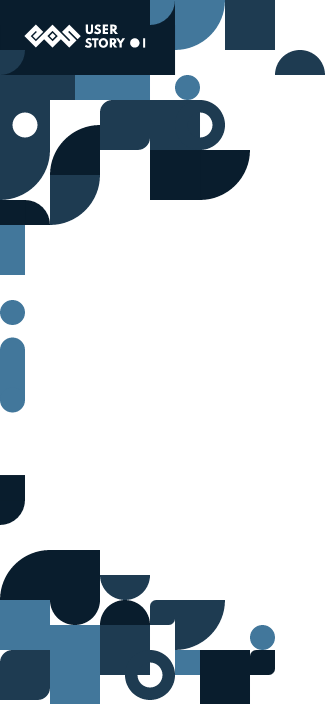
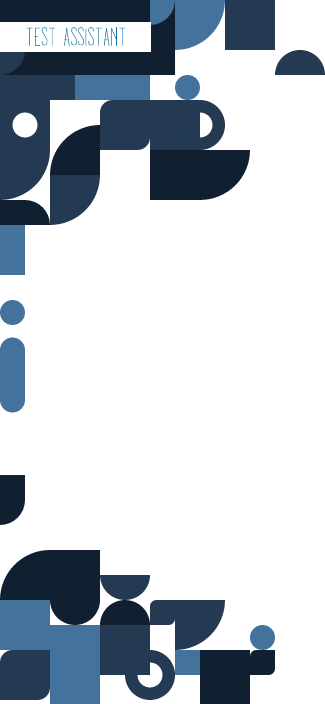
test report demo

Changed region(s): [[0.0, 0.0312, 0.4615, 0.0938]]

diff --git a/client/src/components/Navigation.js b/client/src/components/Navigation.js
@@ -1,7 +1,7 @@
 import React, { useState, useEffect, useRef, useContext } from 'react'
 import { Link, navigate } from '@reach/router'
 
-import eosIcon from '../assets/images/user-story-logo.svg'
+import eosIcon from '../assets/images/logo.png'
 import useAuth from '../hooks/useAuth'
 import Context from '../modules/Context'
 
